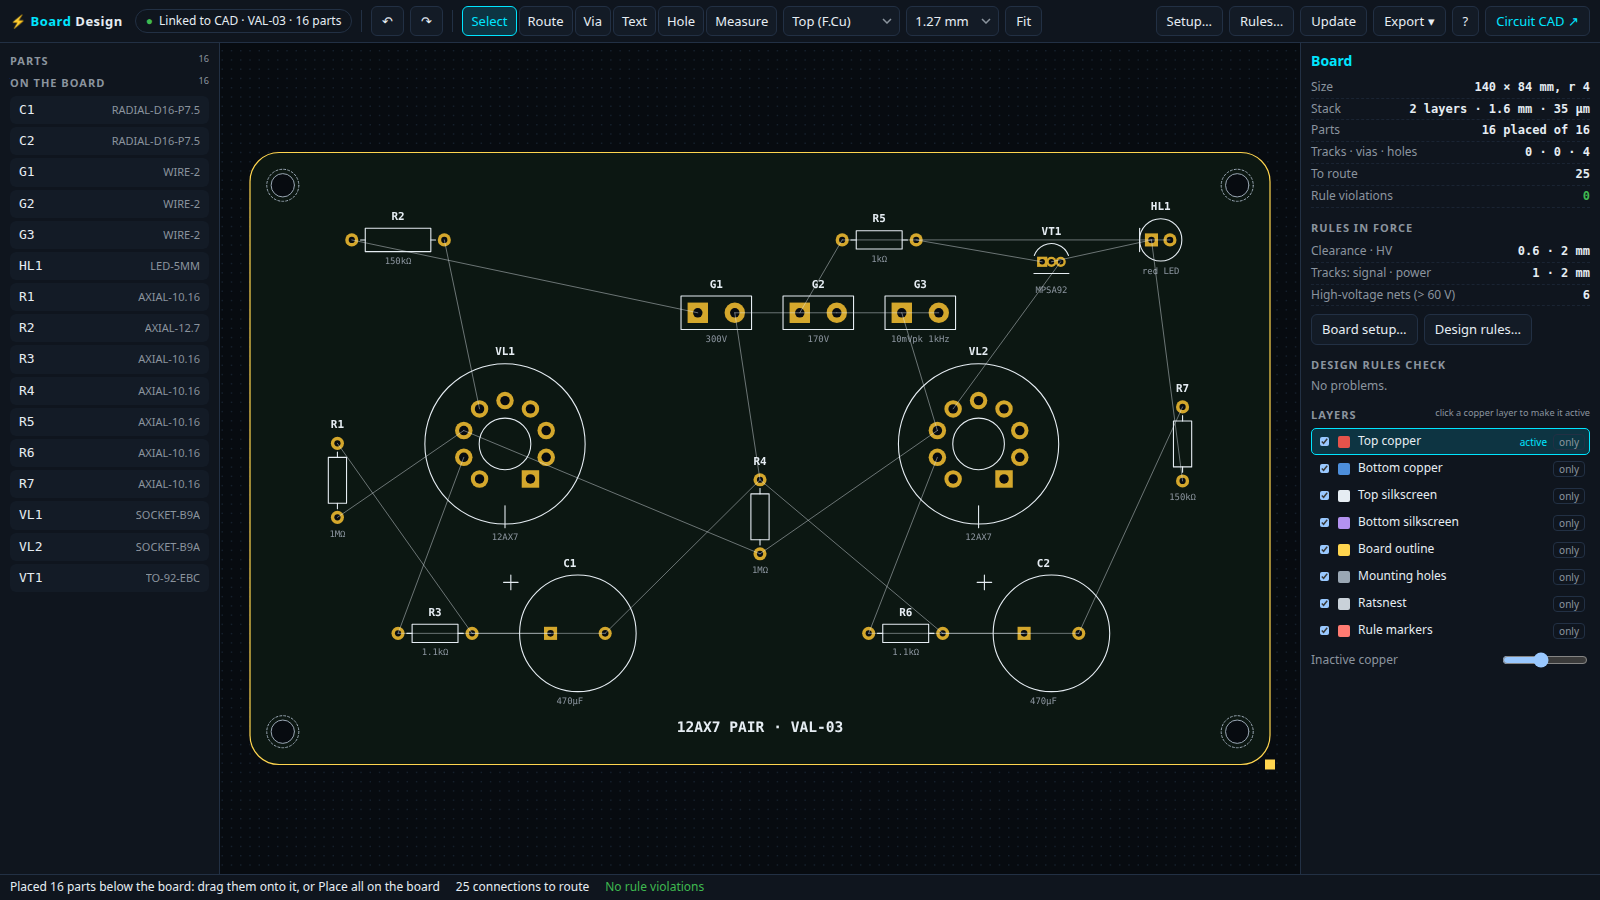
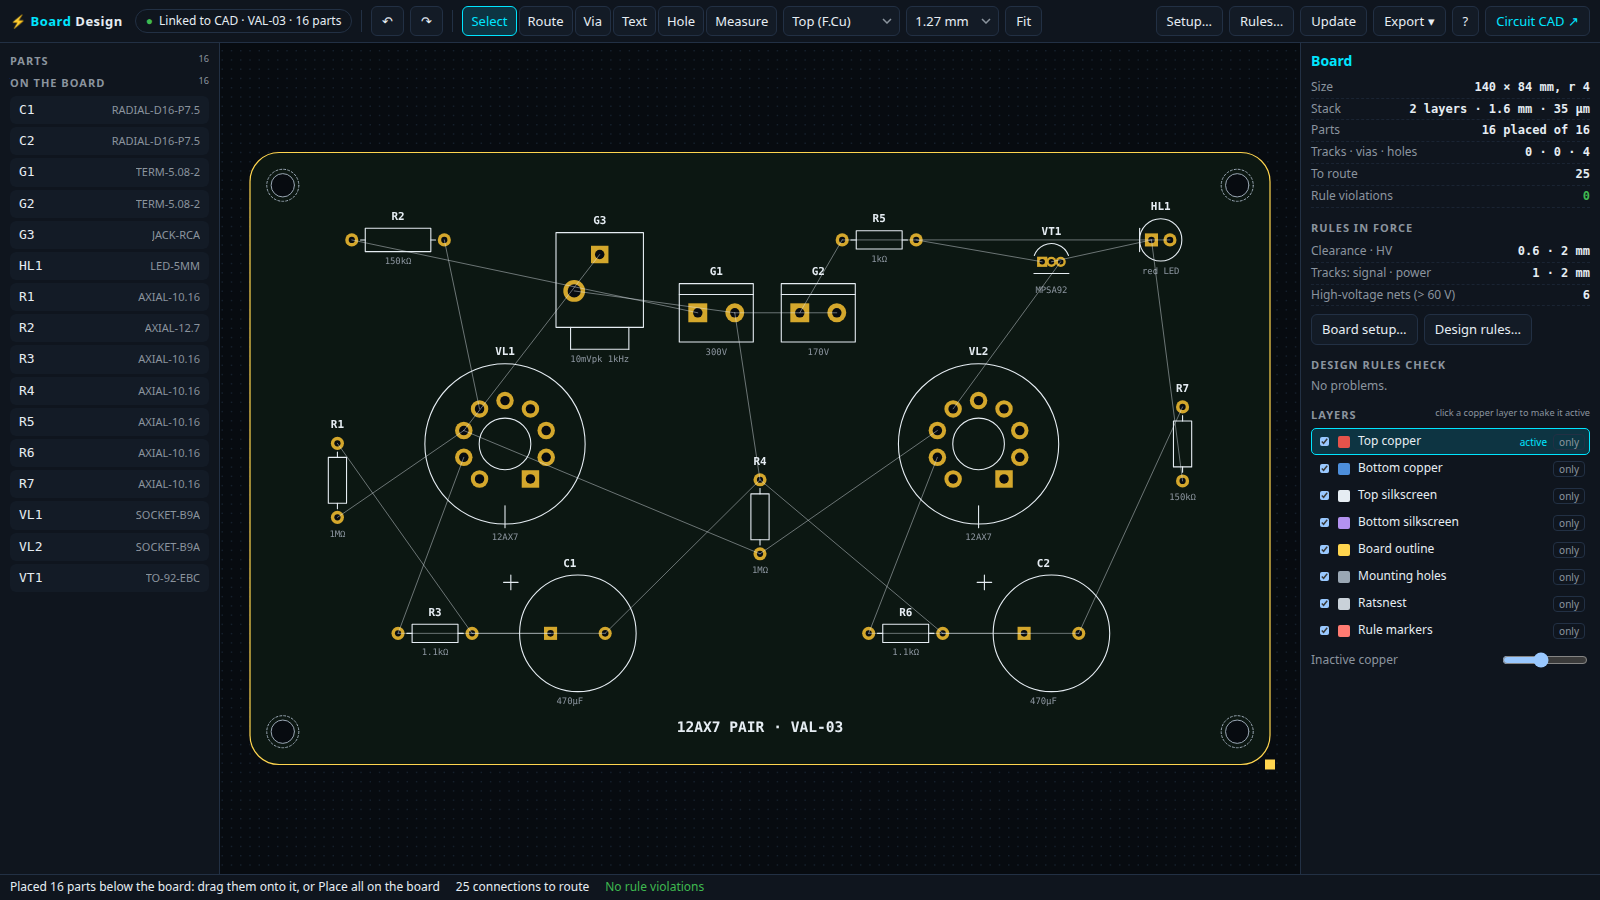
Board Design: through-hole footprints for every part (3.37.0)
Claude-Session: https://claude.ai/code/session_011ZLbznSj1o91qcA4f9ohpL

Changed region(s): [[0.4062, 0.3111, 0.5938, 0.4044], [0.3438, 0.2489, 0.4062, 0.4044], [0.0938, 0.1867, 0.125, 0.28]]

diff --git a/board-core.js b/board-core.js
@@ -125,20 +125,87 @@
     return fp(`TO-18-${order}`, `TO-18 metal can, pins ${order.split("").join("-")}`, [...order].map((n, i) => pad(i + 1, pos[i][0], pos[i][1], 1.3, 0.7, i ? "circle" : "rect", n)),
       [{ t: "circle", x: 0, y: 0, r: 2.8 }, { t: "line", x1: -2.4, y1: 1.5, x2: -3.2, y2: 2.3 }]);
   }
-  function inline(pkg, pitch, order, L, W, tab) {
+  function inline(pkg, pitch, order, L, W, tab, d, dr) {
     const n = order.length, x0 = -(n - 1) / 2 * pitch, silk = [{ t: "rect", x: -L / 2, y: -W / 2, w: L, h: W }];
     if (tab) silk.push({ t: "line", x1: -L / 2, y1: -W / 2 + 1.2, x2: L / 2, y2: -W / 2 + 1.2 });
-    return fp(`${pkg}-${order}`, `${pkg}, pins ${order.split("").join("-")} (tab at the top)`, [...order].map((c, i) => pad(i + 1, x0 + i * pitch, 0, 2, 1.05, i ? "circle" : "rect", c)), silk);
+    return fp(`${pkg}-${order}`, `${pkg}, pins ${order.split("").join("-")} (tab at the top)`, [...order].map((c, i) => pad(i + 1, x0 + i * pitch, 0, d || 2, dr || 1.05, i ? "circle" : "rect", c)), silk);
   }
   const to126 = order => inline("TO-126", 2.29, order, 8, 3.2, false);
   const to220 = order => inline("TO-220", 2.54, order, 10.4, 4.6, true);
+  const to247 = order => inline("TO-247", 5.45, order, 15.9, 5, true, 2.6, 1.4);
   function led5() {
     return fp("LED-5MM", "LED 5 mm (flat side and square pad: cathode)", [pad(1, -1.27, 0, 1.8, 0.9, "rect", "K"), pad(2, 1.27, 0, 1.8, 0.9, "circle", "A")],
       [{ t: "circle", x: 0, y: 0, r: 2.9 }, { t: "line", x1: -2.9, y1: -1.6, x2: -2.9, y2: 1.6 }]);
   }
-  function pot16() {
-    return fp("POT-16MM", "Potentiometer 16 mm, board mount (1 · wiper · 2)", [pad(1, -5, 0, 2.2, 1.2, "rect", "1"), pad(2, 0, 0, 2.2, 1.2, "circle", "W"), pad(3, 5, 0, 2.2, 1.2, "circle", "2")],
-      [{ t: "rect", x: -8, y: -17, w: 16, h: 15 }, { t: "circle", x: 0, y: -9.5, r: 3.5 }]);
+  function led3() {
+    return fp("LED-3MM", "LED 3 mm (flat side and square pad: cathode)", [pad(1, -1.27, 0, 1.6, 0.8, "rect", "K"), pad(2, 1.27, 0, 1.6, 0.8, "circle", "A")],
+      [{ t: "circle", x: 0, y: 0, r: 1.9 }, { t: "line", x1: -1.9, y1: -1, x2: -1.9, y2: 1 }]);
+  }
+  // potentiometers, board mount, pins 1 · wiper · 2 in a row, the shaft above them
+  const POTS = { "9MM": [2.5, 9.8, 10, 1.8, 1.0, 3.5, "Alpha 9 mm"], "16MM": [5, 16, 15, 2.2, 1.2, 3.5, "Alpha 16 mm"], "24MM": [7.5, 24, 22, 2.6, 1.4, 3.5, "24 mm (Alps RK27 style)"] };
+  function pot(size) {
+    const [P, W, H, d, dr, sh, t] = POTS[size];
+    return fp(`POT-${size}`, `Potentiometer ${t}, board mount (1 · wiper · 2)`, [pad(1, -P, 0, d, dr, "rect", "1"), pad(2, 0, 0, d, dr, "circle", "W"), pad(3, P, 0, d, dr, "circle", "2")],
+      [{ t: "rect", x: -W / 2, y: -H - 2, w: W, h: H }, { t: "circle", x: 0, y: -H / 2 - 2, r: sh }]);
+  }
+  function trim3296() {
+    return fp("TRIM-3296W", "Trimmer 3296W, 9.5 × 4.8 mm, pins 2.54 mm (1 · wiper · 2)", [pad(1, -2.54, 0, 1.6, 0.8, "rect", "1"), pad(2, 0, 0, 1.6, 0.8, "circle", "W"), pad(3, 2.54, 0, 1.6, 0.8, "circle", "2")],
+      [{ t: "rect", x: -4.75, y: -2.4, w: 9.5, h: 4.8 }, { t: "circle", x: -3.4, y: -1.1, r: 0.8 }]);
+  }
+  // ceramic disc and silver mica capacitors (the small values in valve circuits)
+  function disc(pitch) {
+    return fp(`DISC-${pitch}`, `Ceramic disc / silver mica, ${pitch} mm lead spacing`, [pad(1, -pitch / 2, 0, 1.6, 0.8), pad(2, pitch / 2, 0, 1.6, 0.8)],
+      [{ t: "rect", x: -pitch / 2 - 1.6, y: -1.4, w: pitch + 3.2, h: 2.8 }]);
+  }
+  // axial electrolytics (the classic can, lying down) and snap-in cans for the HT reservoir
+  const ECAP_AXIAL = { 20.32: [12, 8], 25.4: [16, 10], 30.48: [20, 13], 40.64: [30, 16], 50.8: [38, 22] };
+  function ecapAxial(pitch) {
+    const [L, D] = ECAP_AXIAL[pitch], h = pitch / 2;
+    return fp(`ECAP-AXIAL-${pitch}`, `Axial electrolytic Ø${D} × ${L} mm, ${pitch} mm lead spacing (+ at the square pad)`,
+      [pad(1, -h, 0, 2.2, 1.1, "rect", "+"), pad(2, h, 0, 2.2, 1.1, "circle", "-")],
+      [{ t: "rect", x: -L / 2, y: -D / 2, w: L, h: D }, { t: "line", x1: -h + 1.4, y1: 0, x2: -L / 2, y2: 0 }, { t: "line", x1: L / 2, y1: 0, x2: h - 1.4, y2: 0 }, { t: "line", x1: -L / 2 + 1.5, y1: -D / 2 + 1.5, x2: -L / 2 + 3.5, y2: -D / 2 + 1.5 }, { t: "line", x1: -L / 2 + 2.5, y1: -D / 2 + 0.5, x2: -L / 2 + 2.5, y2: -D / 2 + 2.5 }]);
+  }
+  const SNAPIN = [22, 25, 30, 35];
+  function snapin(D) {
+    return fp(`SNAPIN-D${D}`, `Snap-in electrolytic Ø${D} mm, 10 mm pin spacing (+ at the square pad)`,
+      [pad(1, -5, 0, 3.2, 2.0, "rect", "+"), pad(2, 5, 0, 3.2, 2.0, "circle", "-")],
+      [{ t: "circle", x: 0, y: 0, r: D / 2 }, { t: "line", x1: -D / 2 + 2, y1: -3, x2: -D / 2 + 5, y2: -3 }, { t: "line", x1: -D / 2 + 3.5, y1: -4.5, x2: -D / 2 + 3.5, y2: -1.5 }]);
+  }
+  // screw terminal blocks: 5.08 mm, or 7.5 mm for mains; the pads take the part's pin names
+  function terminal(pitch, names) {
+    const n = names.length, x0 = -(n - 1) / 2 * pitch, big = pitch >= 7, d = big ? 3.0 : 2.6, dr = big ? 1.5 : 1.3, W = n * pitch, H = big ? 10 : 8;
+    return fp(`TERM-${pitch}-${n}`, `Screw terminal, ${n} way, ${pitch} mm pitch (wire entry at the top)`, names.map((nm, i) => pad(i + 1, x0 + i * pitch, 0, d, dr, i ? "circle" : "rect", nm)),
+      [{ t: "rect", x: -W / 2, y: -H / 2, w: W, h: H }, { t: "line", x1: -W / 2, y1: -H / 2 + 1.5, x2: W / 2, y2: -H / 2 + 1.5 }]);
+  }
+  // board-mount jacks: input (RCA, 3.5 mm) and speaker / input (6.35 mm); tip is +, sleeve −
+  function jack(kind) {
+    if (kind === "RCA") return fp("JACK-RCA", "RCA (phono) socket, board mount, front at the bottom", [pad(1, 0, 0, 2.4, 1.3, "rect", "+"), pad(2, -3.5, 5, 3, 1.8, "circle", "-")],
+      [{ t: "rect", x: -6, y: -3, w: 12, h: 13 }, { t: "line", x1: -4, y1: 10, x2: -4, y2: 13 }, { t: "line", x1: 4, y1: 10, x2: 4, y2: 13 }, { t: "line", x1: -4, y1: 13, x2: 4, y2: 13 }]);
+    if (kind === "3.5") return fp("JACK-3.5", "3.5 mm jack, board mount (tip +, ring unused, sleeve −), front at the bottom", [pad(1, 2.5, -2, 1.8, 1.0, "rect", "+"), pad(2, 0, 3, 1.8, 1.0, "circle", "R"), pad(3, -2.5, -2, 1.8, 1.0, "circle", "-")],
+      [{ t: "rect", x: -3.5, y: -6, w: 7, h: 14 }, { t: "rect", x: -2.5, y: 8, w: 5, h: 2.5 }]);
+    return fp("JACK-6.35", "6.35 mm (1/4\") jack, board mount (tip +, sleeve −, switch unused), front at the bottom", [pad(1, 5, -6, 2.6, 1.5, "rect", "+"), pad(2, -5, -6, 2.6, 1.5, "circle", "-"), pad(3, 5, 0, 2.6, 1.5, "circle", "SW")],
+      [{ t: "rect", x: -8, y: -11, w: 16, h: 21 }, { t: "rect", x: -5, y: 10, w: 10, h: 3 }]);
+  }
+  // toggle switches, board mount: SPDT (A · C · B) or DPDT (two rows, one per section)
+  function toggle(poles) {
+    const pads = [];
+    for (let k = 0; k < poles; k++) ["A", "C", "B"].forEach((nm, i) => pads.push(pad(pads.length + 1, (i - 1) * 4.7, (k - (poles - 1) / 2) * 4.7, 2.6, 1.6, pads.length ? "circle" : "rect", poles > 1 ? `${k + 1}.${nm}` : nm)));
+    return fp(`TOGGLE-${poles > 1 ? "DPDT" : "SPDT"}`, `Toggle switch ${poles > 1 ? "DPDT" : "SPDT"}, board mount (A · common · B${poles > 1 ? ", one row per section" : ""})`, pads,
+      [{ t: "rect", x: -6.5, y: -4 - (poles - 1) * 2.35, w: 13, h: 8 + (poles - 1) * 4.7 }]);
+  }
+  // EI-core transformers and chokes, board mount: the pin rows on the two long sides.
+  // Kinds: SE (P1 P2 | S1 S2), PP (P1 U1 CT U2 P2 | S1 S2), PT (mains AC1 AC2 | HT1 CT HT2),
+  // PTP (P1 P2 | HT1 CT HT2); CHOKE: 1 2.
+  const EI = [30, 38, 42, 48, 54, 66, 76, 96];
+  const XF = { SE: [["P1", "P2"], ["S1", "S2"], "single-ended output transformer"], PP: [["P1", "U1", "CT", "U2", "P2"], ["S1", "S2"], "push-pull output transformer"],
+    PT: [["AC1", "AC2"], ["HT1", "CT", "HT2"], "power transformer (mains primary AC1–AC2)"], PTP: [["P1", "P2"], ["HT1", "CT", "HT2"], "power transformer"], CHOKE: [["1", "2"], [], "choke"] };
+  function ei(size, kind) {
+    const [top, bot, what] = XF[kind], W = size, D = Math.round(size * 0.85), big = size >= 54, pitch = size <= 42 ? 5.08 : 7.62;
+    const d = big ? 3.0 : 2.4, dr = big ? 1.6 : 1.2, pads = [];
+    [[top, -D / 2 + 3], [bot, D / 2 - 3]].forEach(([row, y]) => row.forEach((nm, i) => pads.push(pad(pads.length + 1, (i - (row.length - 1) / 2) * pitch, y, d, dr, pads.length ? "circle" : "rect", nm))));
+    const name = kind === "CHOKE" ? `CHOKE-EI${size}` : `XFMR-EI${size}-${kind}`;
+    return fp(name, `EI${size} ${what}, board mount, ${W} × ${D} mm`, pads,
+      [{ t: "rect", x: -W / 2, y: -D / 2, w: W, h: D }, { t: "rect", x: -W * 0.3, y: -D / 2 + 6, w: W * 0.6, h: D - 12 }]);
   }
   // Tube sockets, top (component) side. Viewed from below, the pins run clockwise from the
   // gap or key; seen from above that is counter-clockwise, so pin k sits at 90° − k·step
@@ -179,8 +246,19 @@
     if ((m = /^TO-18-([A-Z]{3})$/.exec(name))) return to18(m[1]);
     if ((m = /^TO-126-([A-Z]{3})$/.exec(name))) return to126(m[1]);
     if ((m = /^TO-220-([A-Z]{3})$/.exec(name))) return to220(m[1]);
+    if ((m = /^TO-247-([A-Z]{3})$/.exec(name))) return to247(m[1]);
     if (name === "LED-5MM") return led5();
-    if (name === "POT-16MM") return pot16();
+    if (name === "LED-3MM") return led3();
+    if ((m = /^POT-(\w+)$/.exec(name)) && POTS[m[1]]) return pot(m[1]);
+    if (name === "TRIM-3296W") return trim3296();
+    if ((m = /^DISC-([\d.]+)$/.exec(name)) && ["2.54", "5.08", "7.62"].includes(m[1])) return disc(+m[1]);
+    if ((m = /^ECAP-AXIAL-([\d.]+)$/.exec(name)) && ECAP_AXIAL[m[1]]) return ecapAxial(+m[1]);
+    if ((m = /^SNAPIN-D(\d+)$/.exec(name)) && SNAPIN.includes(+m[1])) return snapin(+m[1]);
+    if ((m = /^TERM-([\d.]+)-(\d+)$/.exec(name)) && ["5.08", "7.5"].includes(m[1])) return terminal(+m[1], pinNames && pinNames.length === +m[2] ? pinNames : Array.from({ length: +m[2] }, (_, i) => String(i + 1)));
+    if ((m = /^JACK-(RCA|3\.5|6\.35)$/.exec(name))) return jack(m[1]);
+    if ((m = /^TOGGLE-(SPDT|DPDT)$/.exec(name))) return toggle(m[1] === "DPDT" ? 2 : 1);
+    if ((m = /^XFMR-EI(\d+)-(SE|PP|PTP|PT)$/.exec(name)) && EI.includes(+m[1])) return ei(+m[1], m[2]);
+    if ((m = /^CHOKE-EI(\d+)$/.exec(name)) && EI.includes(+m[1])) return ei(+m[1], "CHOKE");
     if ((m = /^SOCKET-([A-Z0-9]+)$/.exec(name))) return /^\d+$/.test(m[1]) ? socket(null, +m[1]) : socket(m[1]);
     if ((m = /^WIRE-(\d+)$/.exec(name))) return wirePads(pinNames && pinNames.length === +m[1] ? pinNames : Array.from({ length: +m[1] }, (_, i) => String(i + 1)));
     return null;
@@ -213,7 +291,6 @@
   // (VL1.1 / VL1.2, SA1.1 / SA1.2) are one physical part with one footprint.
   // ---------------------------------------------------------------------------
   const SKIP = new Set(["frame", "note", "ground", "offsheet", "scope"]);
-  const OFFBOARD = new Set(["inductor", "switch", "speaker", "opt_se", "opt_cat", "opt_pp", "ptx", "ptx_cat", "mains", "vdc", "siggen"]);
   function physicalParts(netlist) {
     const L = root.CadLib, groups = new Map();
     (netlist.parts || []).forEach(p => {
@@ -236,31 +313,50 @@
   // footprints that fit a part, the default first
   function fpOptions(g) {
     const L = root.CadLib, p = g.members[0].params, t = g.type, wires = g.members.reduce((s, m) => s + m.pins.length, 0);
-    const axials = Object.keys(AXIAL).map(k => "AXIAL-" + k);
+    const axials = Object.keys(AXIAL).map(k => "AXIAL-" + k), first = (d, all) => [d, ...all.filter(a => a !== d)];
+    const diodes = ["DIODE-7.62", "DIODE-10.16", "DIODE-12.7", "DIODE-15.24", "DIODE-20.32"], t2 = "TERM-5.08-2";
+    const eiFor = (kind, size) => first(kind === "CHOKE" ? `CHOKE-EI${size}` : `XFMR-EI${size}-${kind}`, EI.map(s => (kind === "CHOKE" ? `CHOKE-EI${s}` : `XFMR-EI${s}-${kind}`)));
     switch (t) {
-      case "resistor": { const d = "AXIAL-" + (AXIAL_FOR_WATTS[String(p.w || "")] || 10.16); return [d, ...axials.filter(a => a !== d), "WIRE-2"]; }
-      case "pot": return ["POT-16MM", "WIRE-3"];
-      case "capacitor": { const d = "BOX-" + boxFor(p.c); return [d, ...Object.keys(BOX).map(k => "BOX-" + k).filter(a => a !== d), "WIRE-2"]; }
-      case "electrolytic": { const [D, P] = radialFor(p.c), d = `RADIAL-D${D}-P${P}`; return [d, ...RADIAL.map(([a, b]) => `RADIAL-D${a}-P${b}`).filter(a => a !== d), "WIRE-2"]; }
-      case "diode": { const d = p.model === "1N4148" ? "DIODE-7.62" : "DIODE-10.16"; return [d, ...["DIODE-7.62", "DIODE-10.16", "DIODE-15.24"].filter(a => a !== d)]; }
-      case "zener": { const z = L.ZENERS[p.model] || {}, d = z.p >= 5 ? "DIODE-15.24" : "DIODE-10.16"; return [d, ...["DIODE-7.62", "DIODE-10.16", "DIODE-15.24"].filter(a => a !== d)]; }
-      case "led": return ["LED-5MM", "WIRE-2"];
+      case "resistor": { const d = "AXIAL-" + (AXIAL_FOR_WATTS[String(p.w || "")] || 10.16); return [...first(d, axials), "WIRE-2"]; }
+      case "pot": return ["POT-16MM", "POT-24MM", "POT-9MM", "TRIM-3296W", "TERM-5.08-3", "WIRE-3"];
+      case "capacitor": {
+        const boxes = Object.keys(BOX).map(k => "BOX-" + k), discs = ["DISC-5.08", "DISC-2.54", "DISC-7.62"];
+        return p.c <= 1e-9 ? [...discs, ...boxes, ...axials, "WIRE-2"] : [...first("BOX-" + boxFor(p.c), boxes), ...discs, ...axials, "WIRE-2"];
+      }
+      case "electrolytic": {
+        const [D, P] = radialFor(p.c), d = `RADIAL-D${D}-P${P}`;
+        return [...first(d, RADIAL.map(([a, b]) => `RADIAL-D${a}-P${b}`)), ...SNAPIN.map(x => `SNAPIN-D${x}`), ...Object.keys(ECAP_AXIAL).map(k => `ECAP-AXIAL-${k}`), "WIRE-2"];
+      }
+      case "diode": return first(p.model === "1N4148" ? "DIODE-7.62" : "DIODE-10.16", diodes);
+      case "zener": { const z = L.ZENERS[p.model] || {}; return first(z.p >= 5 ? "DIODE-15.24" : "DIODE-10.16", diodes); }
+      case "led": return ["LED-5MM", "LED-3MM", "WIRE-2"];
+      case "inductor": { const l = +p.l || 0; return l < 0.05 ? [...first("AXIAL-15.24", axials), ...eiFor("CHOKE", 42), t2, "WIRE-2"] : [...eiFor("CHOKE", l <= 1 ? 42 : l <= 5 ? 54 : 66), ...axials, t2, "WIRE-2"]; }
+      case "opt_se": case "opt_cat": return [...eiFor("SE", 66), "TERM-5.08-4", "WIRE-4"];
+      case "opt_pp": return [...eiFor("PP", 76), "TERM-5.08-7", "WIRE-7"];
+      case "ptx": return [...eiFor("PT", 76), "TERM-5.08-3", "WIRE-3"];
+      case "ptx_cat": return [...eiFor("PTP", 76), "TERM-5.08-5", "WIRE-5"];
+      case "switch": return g.members.length === 1 ? ["TOGGLE-SPDT", "TERM-5.08-3", "WIRE-3"] : g.members.length === 2 ? ["TOGGLE-DPDT", `TERM-5.08-${wires}`, `WIRE-${wires}`] : [`TERM-5.08-${wires}`, `WIRE-${wires}`];
+      case "speaker": return [t2, "JACK-6.35", "WIRE-2"];
+      case "siggen": return ["JACK-RCA", "JACK-6.35", "JACK-3.5", t2, "WIRE-2"];
+      case "vdc": return [t2, "TERM-7.5-2", "WIRE-2"];
+      case "mains": return ["TERM-7.5-2", t2, "WIRE-2"];
       case "npn": case "pnp": case "nmos": case "pmos": {
         const m = (t === "npn" || t === "pnp" ? L.BJTS : L.MOSFETS)[p.model] || {}, order = (PINOUT[p.model] || [t[1] === "m" ? "GDS" : "EBC"])[0];
         const pkg = /TO-220/.test(m.pkg) ? "TO-220" : /TO-126/.test(m.pkg) ? "TO-126" : /TO-18/.test(m.pkg) ? "TO-18" : "TO-92";
-        const all = ["TO-92", "TO-18", "TO-126", "TO-220"].map(k => `${k}-${order}`);
+        const all = ["TO-92", "TO-18", "TO-126", "TO-220", "TO-247"].map(k => `${k}-${order}`);
         return [`${pkg}-${order}`, ...all.filter(a => a !== `${pkg}-${order}`), "WIRE-3"];
       }
       case "tube": { const d = socketFor(L.tubeByName(p.tube)); return [d, ...["SOCKET-B9A", "SOCKET-B7G", "SOCKET-B9D", "SOCKET-OCTAL", "SOCKET-UX4"].filter(a => a !== d), `WIRE-${wires}`]; }
       default: return [`WIRE-${wires}`];
     }
   }
-  const isOffboard = g => OFFBOARD.has(g.type);
+  // wired to a chassis-mounted part (wire pads or a screw terminal) rather than soldered in
+  const isOffboard = g => !!(g.fp && /^(WIRE|TERM)-/.test(g.fp.name));
   // which schematic pins land on each pad: Map padNum -> [{ comp, pin }]
   function padMap(g, f) {
     const L = root.CadLib, map = new Map(), add = (num, comp, pin) => { num = String(num); if (!map.has(num)) map.set(num, []); map.get(num).push({ comp, pin }); };
     const one = g.members[0];
-    if (/^WIRE-/.test(f.name)) { let k = 1; g.members.forEach(m => m.pins.forEach(p => add(k++, m.id, p.id))); return map; }
+    if (/^(WIRE|TERM)-/.test(f.name)) { let k = 1; g.members.forEach(m => m.pins.forEach(p => add(k++, m.id, p.id))); return map; }
     if (g.type === "tube") {
       // pin numbers from the tube's pinout; a dual tube's sections each bring their own
       g.members.forEach(m => {
@@ -273,10 +369,11 @@
     f.pads.forEach(p => { byName[p.name] = p.num; });
     const SEM = { resistor: { 1: "1", 2: "2" }, capacitor: { 1: "1", 2: "2" }, electrolytic: { "+": "1", "-": "2" }, inductor: { 1: "1", 2: "2" },
       diode: { K: "1", A: "2" }, zener: { K: "1", A: "2" }, led: { K: "1", A: "2" }, pot: { 1: "1", W: "2", 2: "3" } };
-    one.pins.forEach(p => {
-      const num = SEM[g.type] ? SEM[g.type][p.id] : byName[p.id];
-      if (num) add(num, one.id, p.id);
-    });
+    // sections of one part (a DPDT switch) find their pads as "1.A", "2.A" …
+    (SEM[g.type] ? [one] : g.members).forEach((m, k) => m.pins.forEach(p => {
+      const num = SEM[g.type] ? SEM[g.type][p.id] : byName[g.members.length > 1 ? `${k + 1}.${p.id}` : p.id];
+      if (num) add(num, m.id, p.id);
+    }));
     return map;
   }
 

diff --git a/README.md b/README.md
@@ -218,18 +218,28 @@ The **Board ↗** button opens the PCB layout of the circuit. The board takes it
 parts and connections from the schematic, and the CAD saves the layout inside
 the circuit file, so one file holds both.
 
-- **Footprints** chosen for each part, through-hole as valve amplifiers are
-  built:
-  - resistors by power rating (10.16 mm lead spacing at ¼ W up to 40.64 mm at
-    10 W), film boxes by value, electrolytics by size;
-  - transistors in TO-92, TO-18, TO-126 and TO-220 with each part's own pin
-    order (pinouts that differ between makers are flagged);
+- **Footprints**: every part has a through-hole footprint, chosen from its
+  values, as valve amplifiers are built:
+  - resistors by power rating (10.16 mm lead spacing at ¼ W up to 50.8 mm at
+    20 W);
+  - capacitors: film boxes by value, ceramic disc / silver mica for the
+    small values, axial film;
+  - electrolytics: radial by size, snap-in cans (Ø22–35 mm) and axial cans;
+  - diodes and zeners from DO-35 to DO-201, 3 and 5 mm LEDs;
+  - transistors in TO-92, TO-18, TO-126, TO-220 and TO-247 with each part's
+    own pin order (pinouts that differ between makers are flagged);
+  - pots (9, 16 and 24 mm) and a 3296W trimmer;
   - real tube sockets (B9A noval, B7G, Magnoval, octal, UX4), drawn from the
     component side; both sections of a dual tube share one socket, each on
     its own pins;
-  - wire pads for chassis-mounted parts: transformers, chokes, speakers,
-    supplies, input jacks.
+  - board-mount EI transformers and chokes (EI30 to EI96, primary on one
+    side, secondary on the other), with pins named as in the schematic;
+  - toggle switches (SPDT, DPDT for a two-section switch), screw terminals
+    (5.08 mm, 7.5 mm for mains), RCA, 3.5 mm and 6.35 mm jacks.
 
+  Dimensions are typical: check them against the part you buy. Parts that
+  live on the chassis (transformers, chokes, speaker, pots) can instead get
+  wire pads or a screw terminal.
   Every part's footprint can be changed in the inspector.
 - **Placement.** New parts wait in a row below the board. Drag them on, or
   *Place all on the board* for a first arrangement. <kbd>R</kbd> rotates,

diff --git a/CHANGELOG.md b/CHANGELOG.md
@@ -6,6 +6,24 @@ and the project uses [Semantic Versioning](https://semver.org/).
 
 ## [Unreleased]
 
+## [3.37.0] - 2026-10-09
+
+### Added
+- **Through-hole footprints for every part** in Board Design. Before, the
+  transformers, chokes, switches, speaker, mains, supplies and the signal
+  generator only got wire pads. Now each part has a real footprint by
+  default:
+  - board-mount EI transformers and chokes, EI30–EI96, pins named as in the
+    schematic;
+  - toggle switches SPDT / DPDT;
+  - screw terminals 5.08 mm and 7.5 mm (mains);
+  - RCA, 3.5 mm and 6.35 mm jacks.
+- More choices for the other parts: pots 9 and 24 mm, a 3296W trimmer,
+  ceramic disc / silver mica and axial film capacitors, snap-in and axial
+  electrolytics, DO-201 diodes, 3 mm LEDs, TO-247.
+- Wire pads and screw terminals stay available for parts mounted on the
+  chassis.
+
 ## [3.36.0] - 2026-10-09
 
 ### Added
